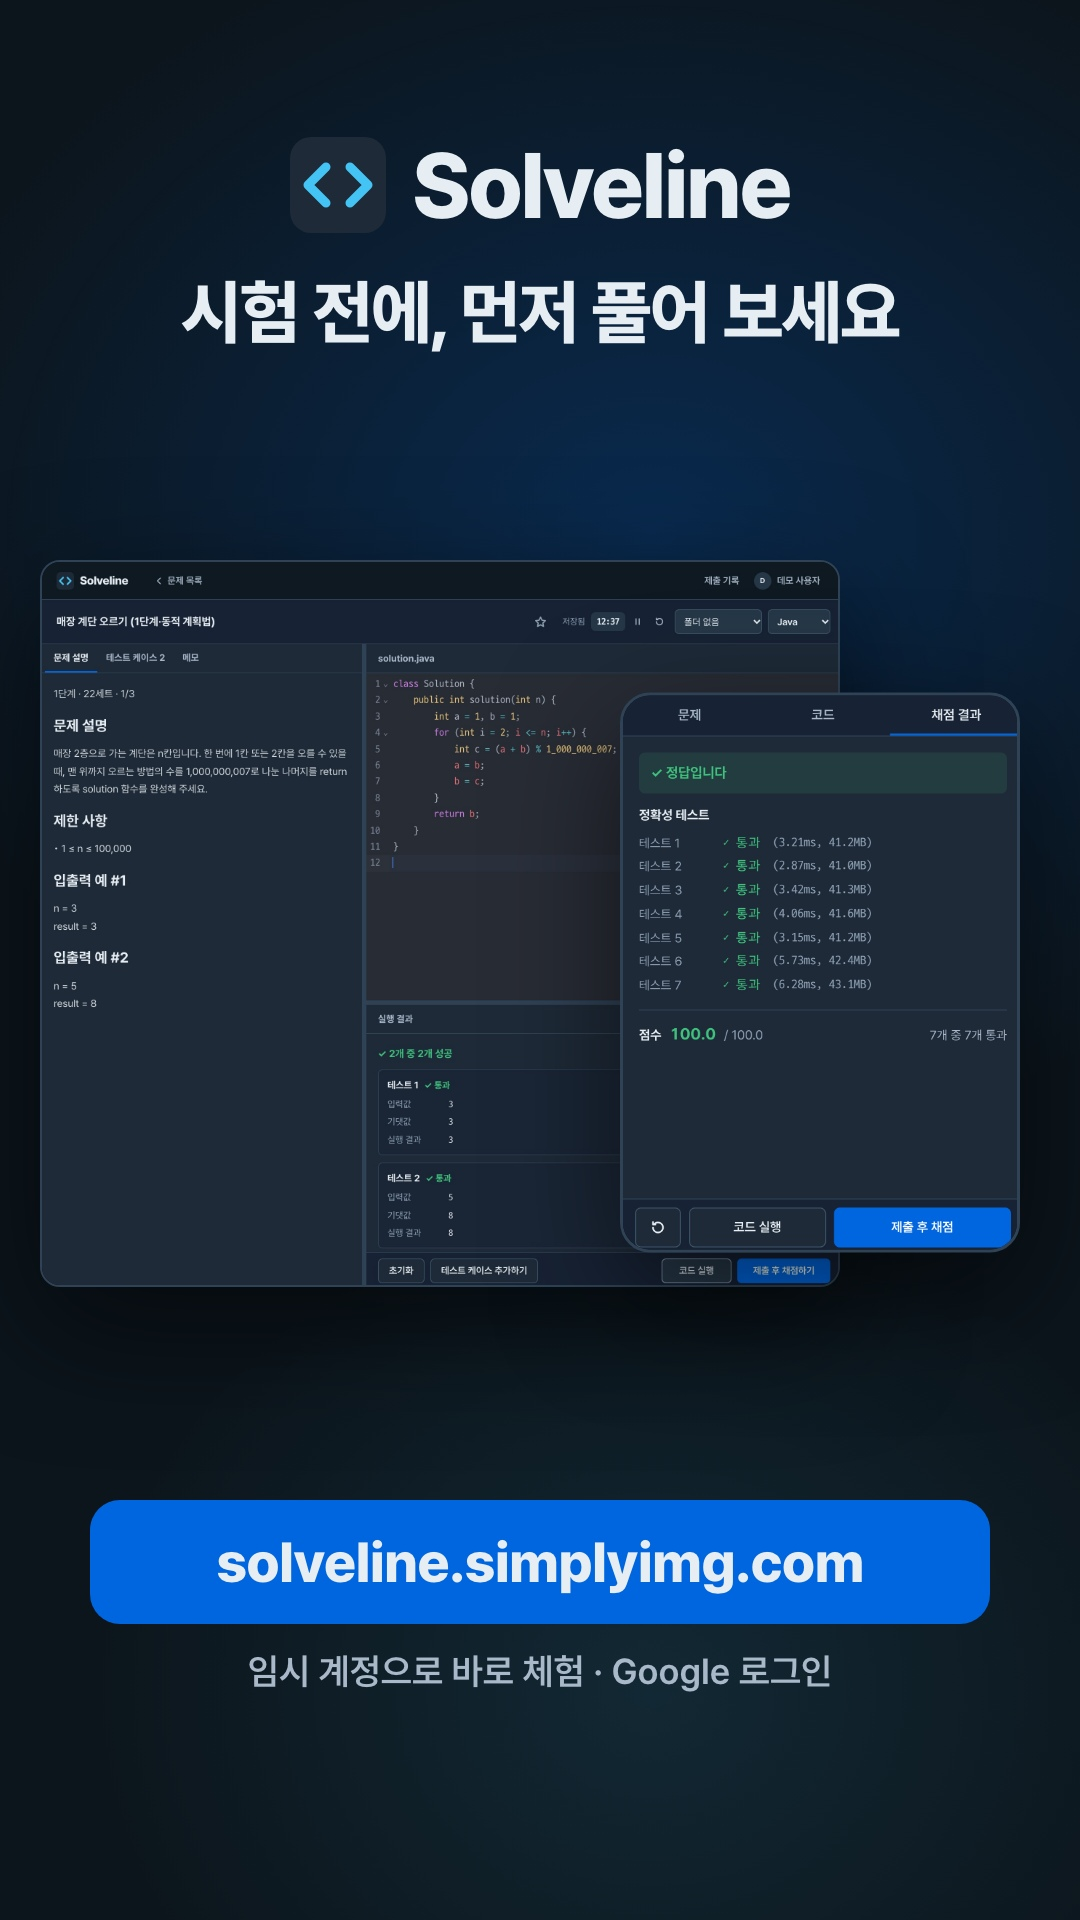
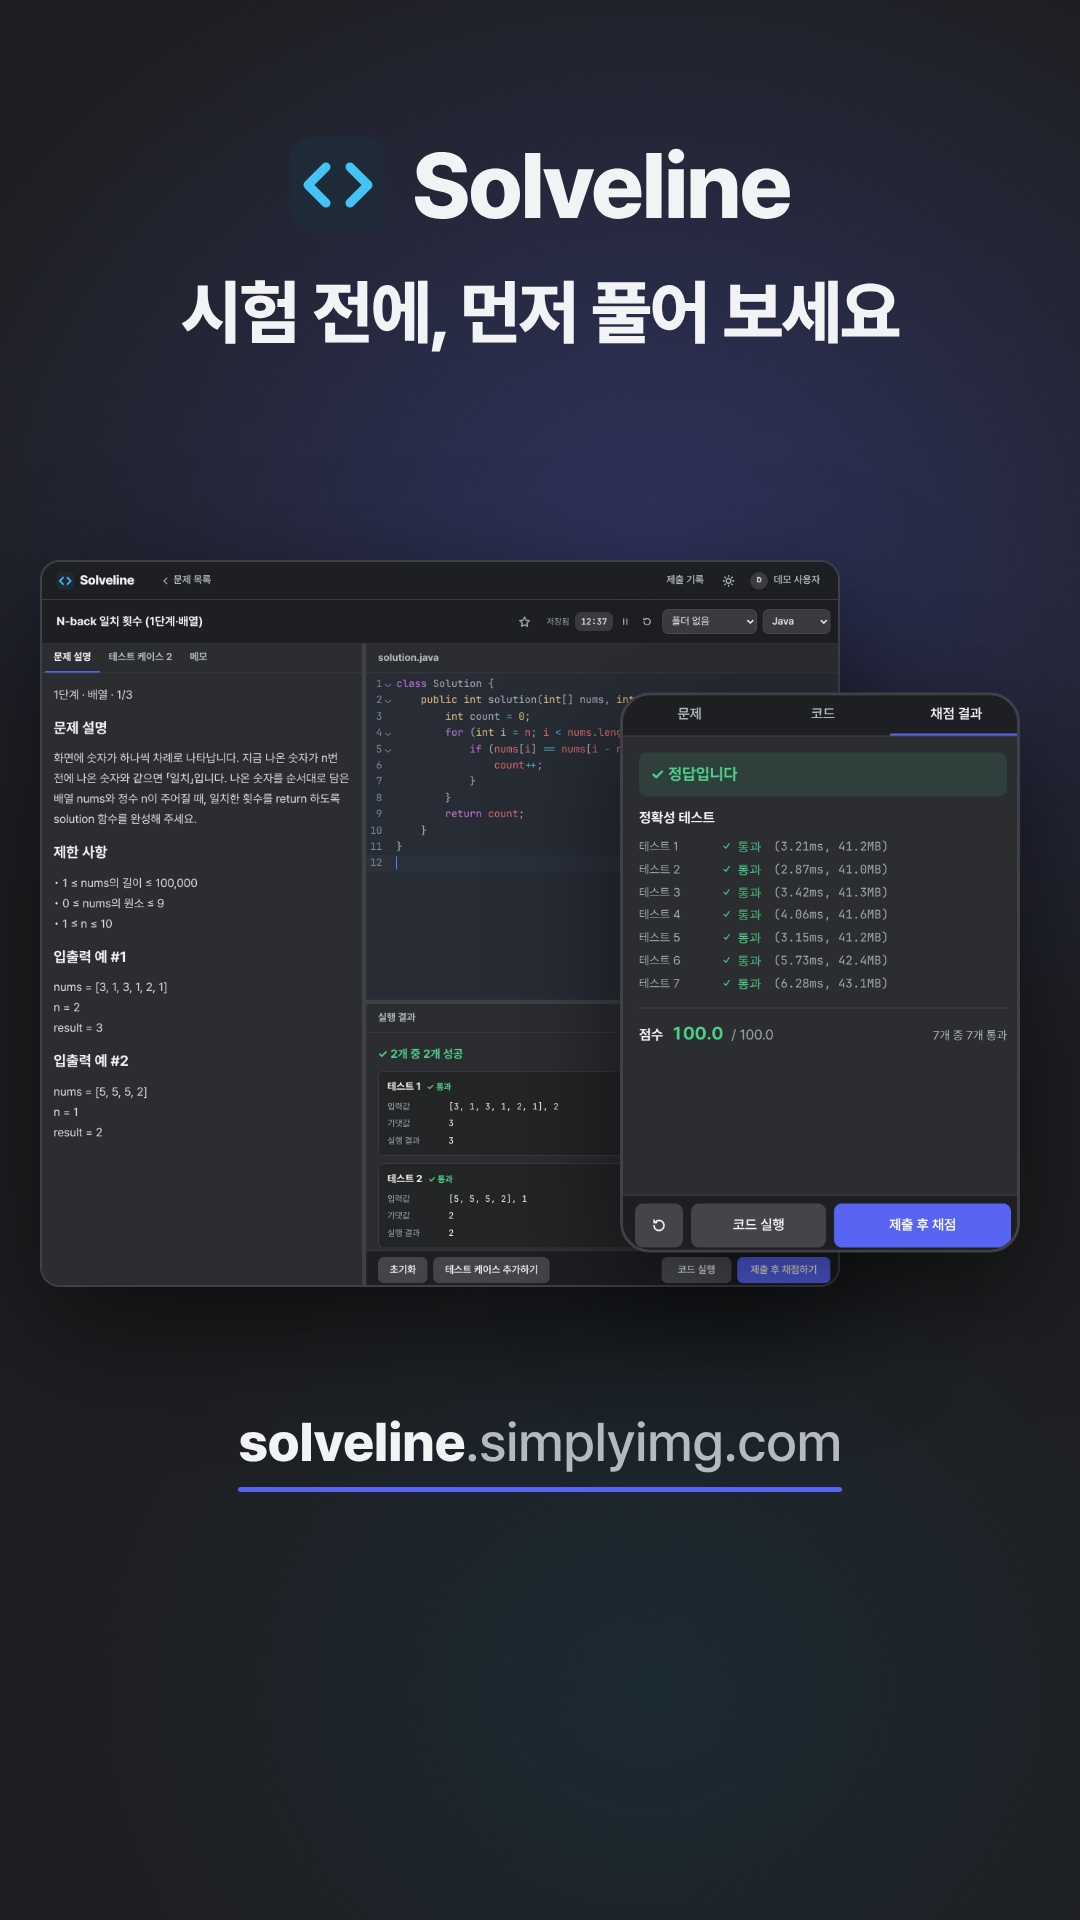
docs(readme): 데모 영상 표지와 링크를 새 UI 버전으로 교체 (#201)
* docs(readme): 데모 영상 표지를 새 UI 화면으로 교체

Claude-Session: https://claude.ai/code/session_01AbPS7AkKFh7dSVjtEEqLXi

* docs(readme): 데모 영상 표지를 N-back 예시 문제 화면으로 바꾼다

Claude-Session: https://claude.ai/code/session_01AbPS7AkKFh7dSVjtEEqLXi

* docs(readme): 데모 영상 링크를 새 YouTube 영상으로 바꾼다

Claude-Session: https://claude.ai/code/session_01AbPS7AkKFh7dSVjtEEqLXi

---------

diff --git a/README.en.md b/README.en.md
@@ -18,8 +18,8 @@
 ---
 
 <p align="center">
-  <a href="https://www.youtube.com/shorts/HfLgXt2_xjs"><img src="docs/assets/demo-poster.jpg" alt="Cover of the 30-second Solveline demo video (in Korean)" width="270"></a><br>
-  <a href="https://www.youtube.com/shorts/HfLgXt2_xjs">▶ Watch the 30-second demo (in Korean)</a>
+  <a href="https://www.youtube.com/shorts/X6JTinG-edU"><img src="docs/assets/demo-poster.jpg" alt="Cover of the 30-second Solveline demo video (in Korean)" width="270"></a><br>
+  <a href="https://www.youtube.com/shorts/X6JTinG-edU">▶ Watch the 30-second demo (in Korean)</a>
 </p>
 
 Solveline is a web IDE that puts the problem statement, code editor and run results on one screen, like a real coding test, and runs and grades Java and Python code.

diff --git a/README.md b/README.md
@@ -18,8 +18,8 @@
 ---
 
 <p align="center">
-  <a href="https://www.youtube.com/shorts/HfLgXt2_xjs"><img src="docs/assets/demo-poster.jpg" alt="Solveline 30초 데모 영상 표지" width="270"></a><br>
-  <a href="https://www.youtube.com/shorts/HfLgXt2_xjs">▶ 30초 데모 영상 보기</a>
+  <a href="https://www.youtube.com/shorts/X6JTinG-edU"><img src="docs/assets/demo-poster.jpg" alt="Solveline 30초 데모 영상 표지" width="270"></a><br>
+  <a href="https://www.youtube.com/shorts/X6JTinG-edU">▶ 30초 데모 영상 보기</a>
 </p>
 
 실제 코딩 테스트 화면처럼 문제 설명·코드 에디터·실행 결과를 한 화면에 두고, Java·Python 코드를 실행·채점하는 웹 IDE입니다.
